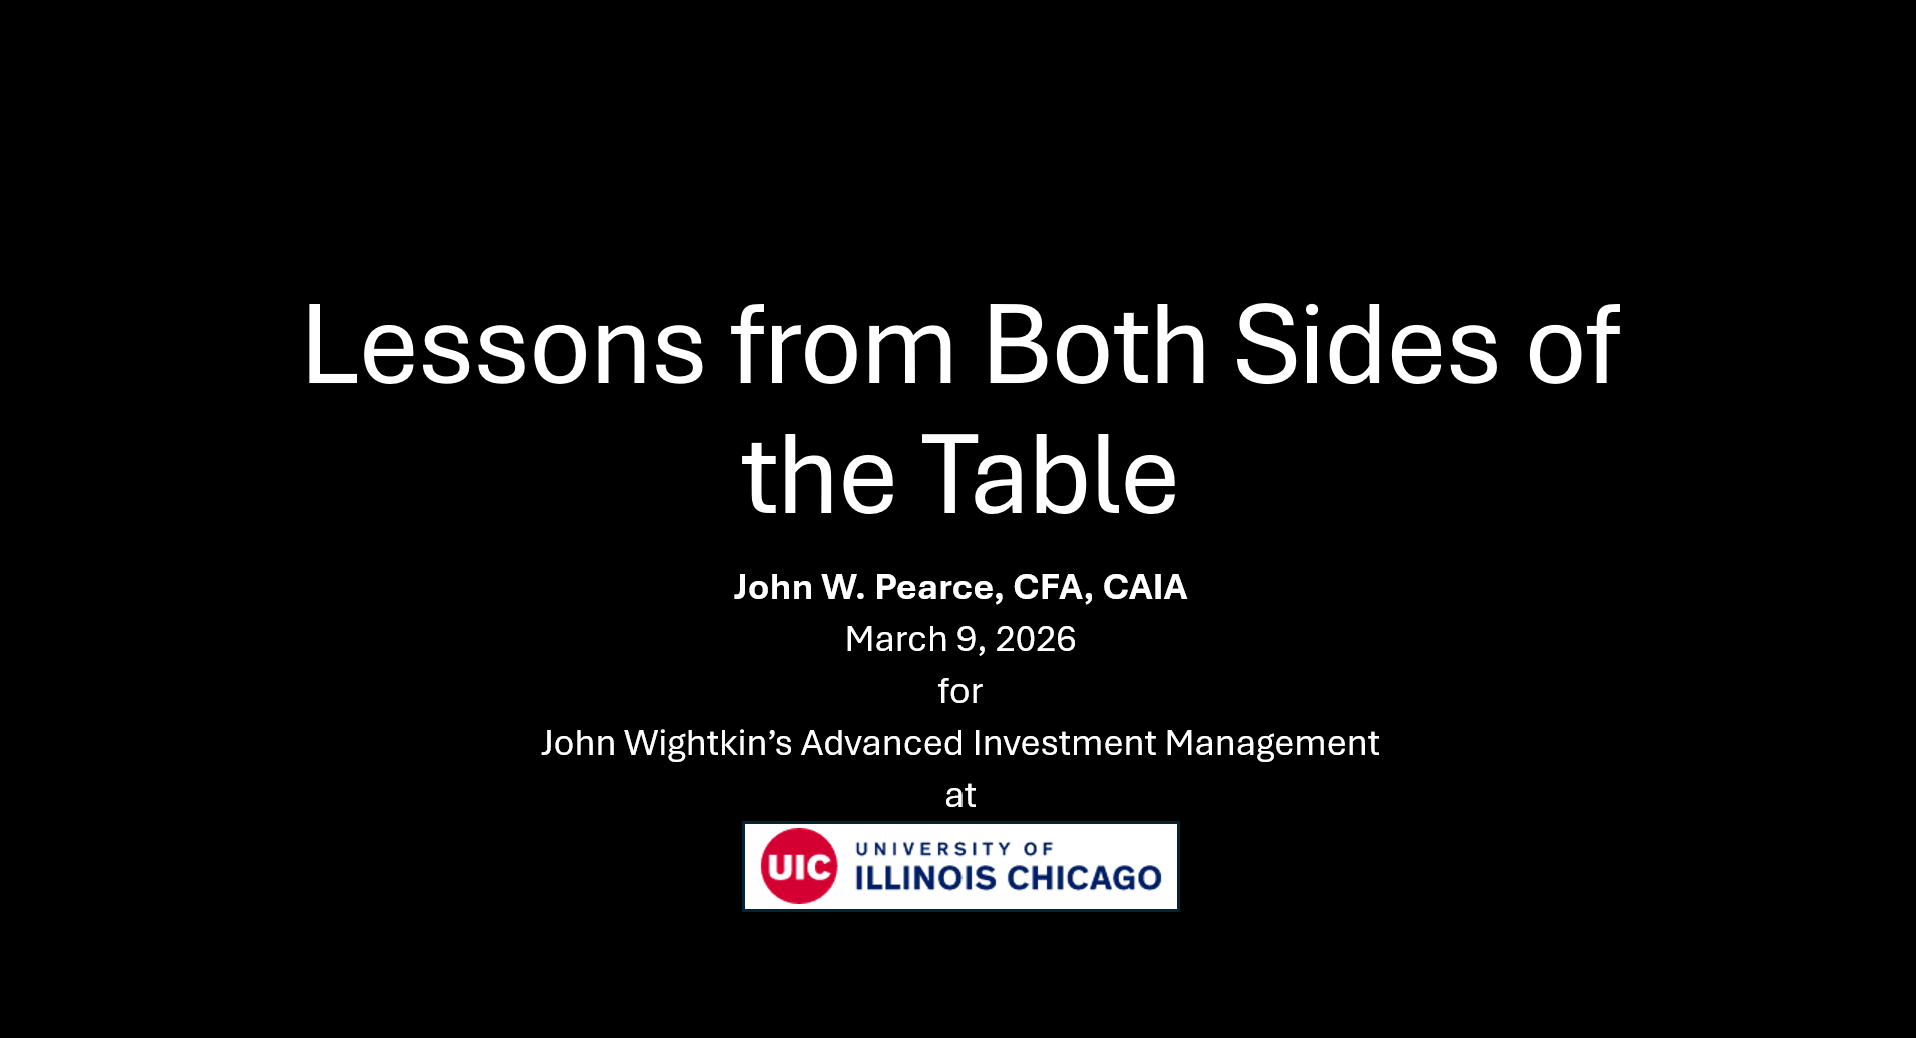
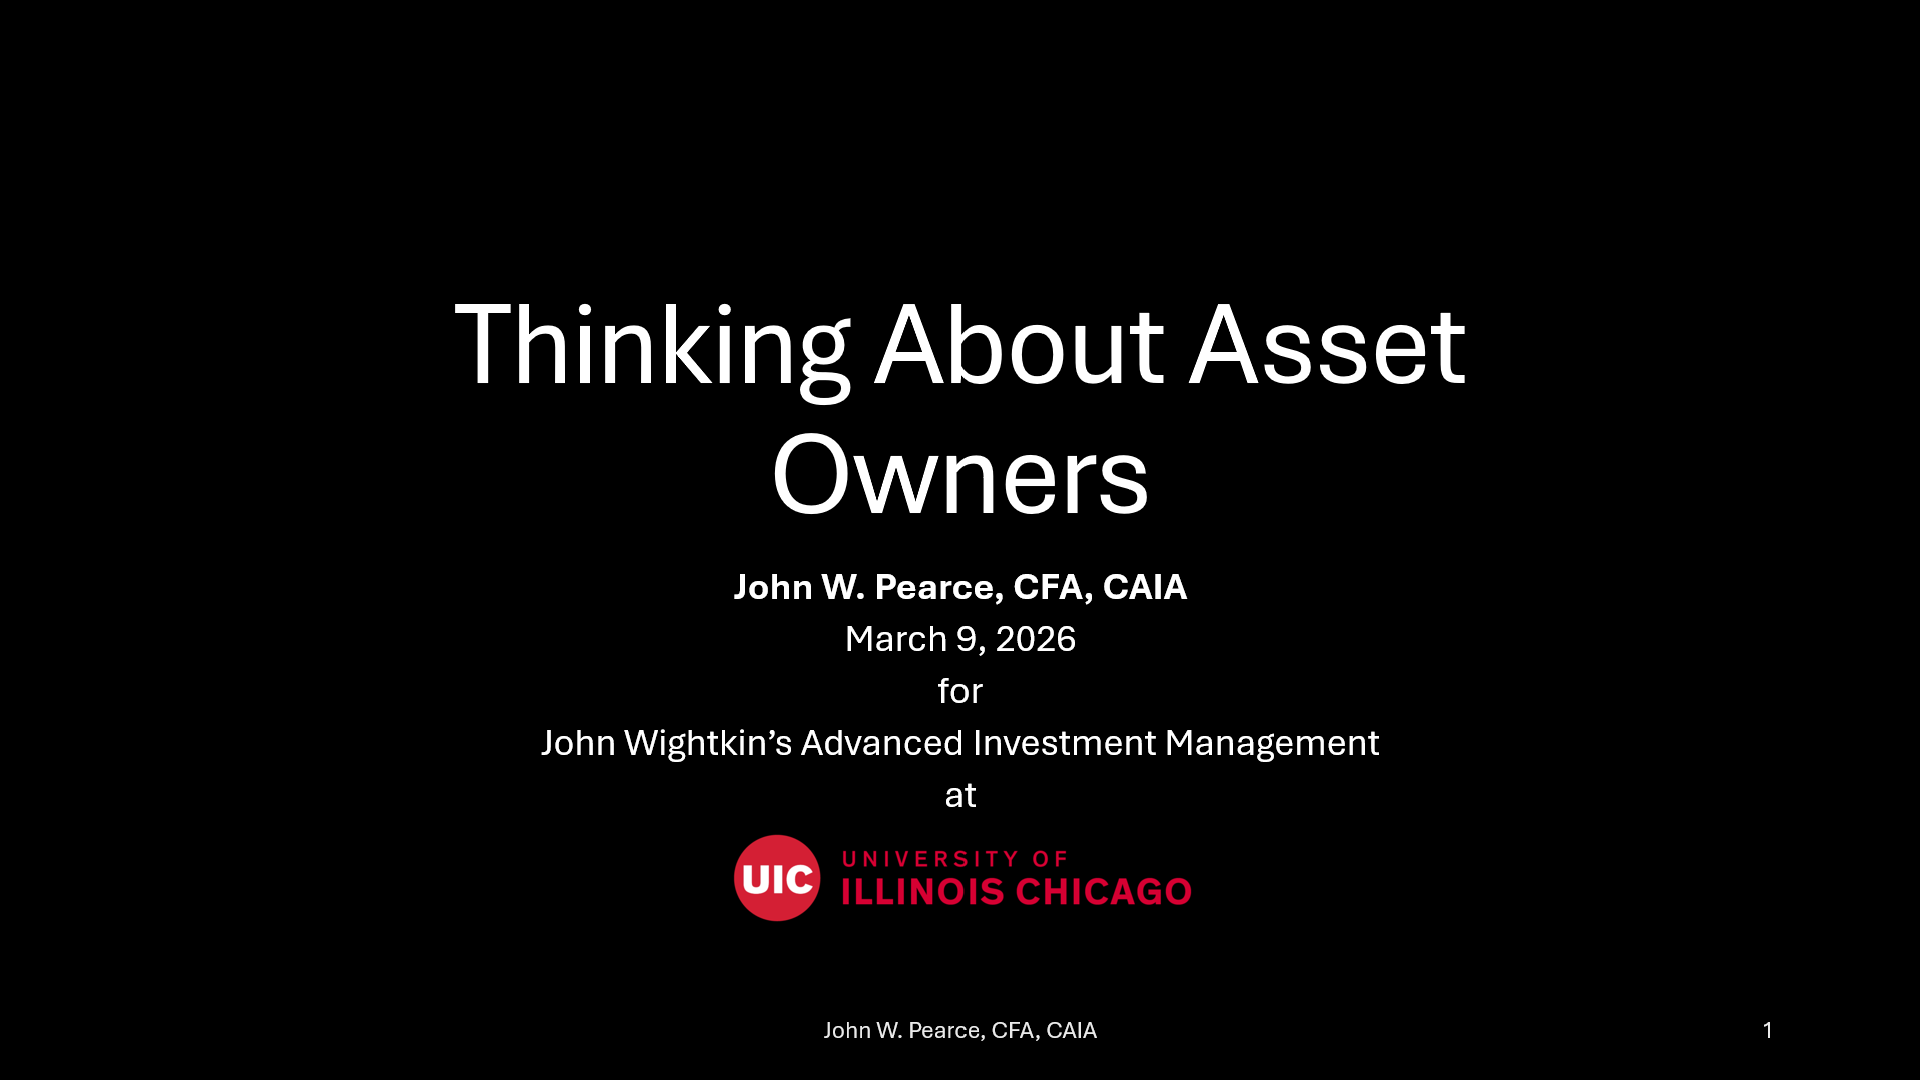
Built site for gh-pages

diff --git a/index.html b/index.html
@@ -282,13 +282,13 @@ window.Quarto = {
 <p>Details about my speaking engagements are on the <a href="./talks.html">Talks</a> page. A few of my upcoming and recent are listed here:</p>
 <div id="listing-talks" class="quarto-listing quarto-listing-container-grid">
 <div class="list grid quarto-listing-cols-3">
-<div class="g-col-1" data-index="0" data-categories="VUlD" data-listing-date-sort="1773014400000" data-listing-file-modified-sort="1772671410723" data-listing-date-modified-sort="NaN" data-listing-reading-time-sort="1" data-listing-word-count-sort="30">
+<div class="g-col-1" data-index="0" data-categories="VUlD" data-listing-date-sort="1773014400000" data-listing-file-modified-sort="1773015668895" data-listing-date-modified-sort="NaN" data-listing-reading-time-sort="1" data-listing-word-count-sort="45">
 <a href="./talks/2026-03-09_uic_fin_456_556/index.html" class="quarto-grid-link">
 <div class="quarto-grid-item card h-100 card-left">
 <p class="card-img-top"><img src="talks/2026-03-09_uic_fin_456_556/titleslide.png" style="height: 150px;"  class="thumbnail-image card-img"/></p>
 <div class="card-body post-contents">
 <h5 class="no-anchor card-title listing-title">
-Lessons from Both Sides of the Table
+Thinking About Asset Owners
 </h5>
 <div class="card-text listing-description delink">
 I will be speaking during both sections of John Wightkin’s Advanced Investment Management course on March 9, 2026.
@@ -304,7 +304,7 @@ Mar 9, 2026
 </div>
 </div></a>
 </div>
-<div class="g-col-1" data-index="1" data-categories="Q1FBJTJDVUlD" data-listing-date-sort="1769644800000" data-listing-file-modified-sort="1772671410723" data-listing-date-modified-sort="NaN" data-listing-reading-time-sort="1" data-listing-word-count-sort="103">
+<div class="g-col-1" data-index="1" data-categories="Q1FBJTJDVUlD" data-listing-date-sort="1769644800000" data-listing-file-modified-sort="1773015668894" data-listing-date-modified-sort="NaN" data-listing-reading-time-sort="1" data-listing-word-count-sort="103">
 <a href="./talks/2026-01-29_cqa_uic/index.html" class="quarto-grid-link">
 <div class="quarto-grid-item card h-100 card-left">
 <p class="card-img-top"><img src="talks/2026-01-29_cqa_uic/cqa_flyer.png" style="height: 150px;"  class="thumbnail-image card-img"/></p>
@@ -326,7 +326,7 @@ Jan 29, 2026
 </div>
 </div></a>
 </div>
-<div class="g-col-1" data-index="2" data-categories="QWxiaW9u" data-listing-date-sort="1699574400000" data-listing-file-modified-sort="1772671410719" data-listing-date-modified-sort="NaN" data-listing-reading-time-sort="1" data-listing-word-count-sort="142">
+<div class="g-col-1" data-index="2" data-categories="QWxiaW9u" data-listing-date-sort="1699574400000" data-listing-file-modified-sort="1773015668891" data-listing-date-modified-sort="NaN" data-listing-reading-time-sort="1" data-listing-word-count-sort="142">
 <a href="./talks/2023-11-10_albion_formulas/index.html" class="quarto-grid-link">
 <div class="quarto-grid-item card h-100 card-left">
 <p class="card-img-top"><img src="talks/2023-11-10_albion_formulas/formulas_titlecard.png" style="height: 150px;"  class="thumbnail-image card-img"/></p>
@@ -357,7 +357,7 @@ Nov 10, 2023
 <p>I have collected articles of interest on the <a href="./thoughts.html">Thoughts</a> page. Here are a few recent posts:</p>
 <div id="listing-thoughts" class="quarto-listing quarto-listing-container-grid">
 <div class="list grid quarto-listing-cols-3">
-<div class="g-col-1" data-index="0" data-categories="SW50ZXJ2aWV3cyUyQ0FJ" data-listing-date-sort="1727654400000" data-listing-file-modified-sort="1772671410732" data-listing-date-modified-sort="NaN" data-listing-reading-time-sort="1" data-listing-word-count-sort="55">
+<div class="g-col-1" data-index="0" data-categories="SW50ZXJ2aWV3cyUyQ0FJ" data-listing-date-sort="1727654400000" data-listing-file-modified-sort="1773015668903" data-listing-date-modified-sort="NaN" data-listing-reading-time-sort="1" data-listing-word-count-sort="55">
 <a href="./thoughts/2024-09-30_mg_ai_impact/index.html" class="quarto-grid-link">
 <div class="quarto-grid-item card h-100 card-left">
 <p class="card-img-top"><img src="thoughts/2024-09-30_mg_ai_impact/ai_impact_image.png" style="height: 150px;"  class="thumbnail-image card-img"/></p>
@@ -379,7 +379,7 @@ Sep 30, 2024
 </div>
 </div></a>
 </div>
-<div class="g-col-1" data-index="1" data-categories="SW50ZXJ2aWV3cyUyQ01hY3Jv" data-listing-date-sort="1707264000000" data-listing-file-modified-sort="1772671410729" data-listing-date-modified-sort="NaN" data-listing-reading-time-sort="1" data-listing-word-count-sort="71">
+<div class="g-col-1" data-index="1" data-categories="SW50ZXJ2aWV3cyUyQ01hY3Jv" data-listing-date-sort="1707264000000" data-listing-file-modified-sort="1773015668902" data-listing-date-modified-sort="NaN" data-listing-reading-time-sort="1" data-listing-word-count-sort="71">
 <a href="./thoughts/2024-02-07_cio_monetary_policy/index.html" class="quarto-grid-link">
 <div class="quarto-grid-item card h-100 card-left">
 <p class="card-img-top"><img src="thoughts/2024-02-07_cio_monetary_policy/monetary_policy_image.png" style="height: 150px;"  class="thumbnail-image card-img"/></p>
@@ -401,7 +401,7 @@ Feb 7, 2024
 </div>
 </div></a>
 </div>
-<div class="g-col-1" data-index="2" data-categories="SW50ZXJ2aWV3cyUyQ0FJ" data-listing-date-sort="1693526400000" data-listing-file-modified-sort="1772671410729" data-listing-date-modified-sort="NaN" data-listing-reading-time-sort="1" data-listing-word-count-sort="53">
+<div class="g-col-1" data-index="2" data-categories="SW50ZXJ2aWV3cyUyQ0FJ" data-listing-date-sort="1693526400000" data-listing-file-modified-sort="1773015668902" data-listing-date-modified-sort="NaN" data-listing-reading-time-sort="1" data-listing-word-count-sort="53">
 <a href="./thoughts/2023-09-01_cio_ai_change/index.html" class="quarto-grid-link">
 <div class="quarto-grid-item card h-100 card-left">
 <p class="card-img-top"><img src="thoughts/2023-09-01_cio_ai_change/ai_change_image.png" style="height: 150px;"  class="thumbnail-image card-img"/></p>

diff --git a/thoughts.html b/thoughts.html
@@ -236,7 +236,7 @@ window.Quarto = {
 
 <div class="quarto-listing quarto-listing-container-default" id="listing-listing">
 <div class="list quarto-listing-default">
-<div class="quarto-post image-right" data-index="0" data-categories="SW50ZXJ2aWV3cyUyQ0FJ" data-listing-date-sort="1727654400000" data-listing-file-modified-sort="1772671410732" data-listing-date-modified-sort="NaN" data-listing-reading-time-sort="1" data-listing-word-count-sort="55">
+<div class="quarto-post image-right" data-index="0" data-categories="SW50ZXJ2aWV3cyUyQ0FJ" data-listing-date-sort="1727654400000" data-listing-file-modified-sort="1773015668903" data-listing-date-modified-sort="NaN" data-listing-reading-time-sort="1" data-listing-word-count-sort="55">
 <div class="thumbnail"><a href="./thoughts/2024-09-30_mg_ai_impact/index.html" class="no-external">
 
 <p class="card-img-top"><img src="thoughts/2024-09-30_mg_ai_impact/ai_impact_image.png"  class="thumbnail-image card-img"/></p>
@@ -271,7 +271,7 @@ John W. Pearce, CFA
 </a>
 </div>
 </div>
-<div class="quarto-post image-right" data-index="1" data-categories="SW50ZXJ2aWV3cyUyQ01hY3Jv" data-listing-date-sort="1707264000000" data-listing-file-modified-sort="1772671410729" data-listing-date-modified-sort="NaN" data-listing-reading-time-sort="1" data-listing-word-count-sort="71">
+<div class="quarto-post image-right" data-index="1" data-categories="SW50ZXJ2aWV3cyUyQ01hY3Jv" data-listing-date-sort="1707264000000" data-listing-file-modified-sort="1773015668902" data-listing-date-modified-sort="NaN" data-listing-reading-time-sort="1" data-listing-word-count-sort="71">
 <div class="thumbnail"><a href="./thoughts/2024-02-07_cio_monetary_policy/index.html" class="no-external">
 
 <p class="card-img-top"><img src="thoughts/2024-02-07_cio_monetary_policy/monetary_policy_image.png"  class="thumbnail-image card-img"/></p>
@@ -306,7 +306,7 @@ John W. Pearce, CFA
 </a>
 </div>
 </div>
-<div class="quarto-post image-right" data-index="2" data-categories="SW50ZXJ2aWV3cyUyQ0FJ" data-listing-date-sort="1693526400000" data-listing-file-modified-sort="1772671410729" data-listing-date-modified-sort="NaN" data-listing-reading-time-sort="1" data-listing-word-count-sort="53">
+<div class="quarto-post image-right" data-index="2" data-categories="SW50ZXJ2aWV3cyUyQ0FJ" data-listing-date-sort="1693526400000" data-listing-file-modified-sort="1773015668902" data-listing-date-modified-sort="NaN" data-listing-reading-time-sort="1" data-listing-word-count-sort="53">
 <div class="thumbnail"><a href="./thoughts/2023-09-01_cio_ai_change/index.html" class="no-external">
 
 <p class="card-img-top"><img src="thoughts/2023-09-01_cio_ai_change/ai_change_image.png"  class="thumbnail-image card-img"/></p>
@@ -341,7 +341,7 @@ John W. Pearce, CFA
 </a>
 </div>
 </div>
-<div class="quarto-post image-right" data-index="3" data-categories="UGVuc2lvbiUyMEZ1bmRzJTJDSG9ub3JzJTJDSW50ZXJ2aWV3cw==" data-listing-date-sort="1693440000000" data-listing-file-modified-sort="1772671410728" data-listing-date-modified-sort="NaN" data-listing-reading-time-sort="1" data-listing-word-count-sort="60">
+<div class="quarto-post image-right" data-index="3" data-categories="UGVuc2lvbiUyMEZ1bmRzJTJDSG9ub3JzJTJDSW50ZXJ2aWV3cw==" data-listing-date-sort="1693440000000" data-listing-file-modified-sort="1773015668901" data-listing-date-modified-sort="NaN" data-listing-reading-time-sort="1" data-listing-word-count-sort="60">
 <div class="thumbnail"><a href="./thoughts/2023-08-31_cio_nextgens/index.html" class="no-external">
 
 <p class="card-img-top"><img src="thoughts/2023-08-31_cio_nextgens/cio_nextgen_image.png"  class="thumbnail-image card-img"/></p>
@@ -378,7 +378,7 @@ John W. Pearce, CFA
 </a>
 </div>
 </div>
-<div class="quarto-post image-right" data-index="4" data-categories="UGVuc2lvbiUyMEZ1bmRzJTJDUmlzaw==" data-listing-date-sort="1688083200000" data-listing-file-modified-sort="1772671410725" data-listing-date-modified-sort="NaN" data-listing-reading-time-sort="2" data-listing-word-count-sort="249">
+<div class="quarto-post image-right" data-index="4" data-categories="UGVuc2lvbiUyMEZ1bmRzJTJDUmlzaw==" data-listing-date-sort="1688083200000" data-listing-file-modified-sort="1773015668897" data-listing-date-modified-sort="NaN" data-listing-reading-time-sort="2" data-listing-word-count-sort="249">
 <div class="thumbnail"><a href="./thoughts/2023-06-30_chifed_uk_pension_stress/index.html" class="no-external">
 
 <p class="card-img-top"><img src="thoughts/2023-06-30_chifed_uk_pension_stress/uk_pension_stress_image.png"  class="thumbnail-image card-img"/></p>
@@ -413,7 +413,7 @@ John W. Pearce, CFA
 </a>
 </div>
 </div>
[2 lines of base64/hex data omitted]
 <div class="thumbnail"><a href="./thoughts/2023-05-31_imrf_ten_lessons_learned/index.html" class="no-external">
 
 <p class="card-img-top"><img src="thoughts/2023-05-31_imrf_ten_lessons_learned/ten_lessons_image.png"  class="thumbnail-image card-img"/></p>

diff --git a/talks.html b/talks.html
@@ -236,7 +236,7 @@ window.Quarto = {
 
 <div class="quarto-listing quarto-listing-container-default" id="listing-listing">
 <div class="list quarto-listing-default">
-<div class="quarto-post image-right" data-index="0" data-categories="VUlD" data-listing-date-sort="1773014400000" data-listing-file-modified-sort="1772671410723" data-listing-date-modified-sort="NaN" data-listing-reading-time-sort="1" data-listing-word-count-sort="30">
+<div class="quarto-post image-right" data-index="0" data-categories="VUlD" data-listing-date-sort="1773014400000" data-listing-file-modified-sort="1773015668895" data-listing-date-modified-sort="NaN" data-listing-reading-time-sort="1" data-listing-word-count-sort="45">
 <div class="thumbnail"><a href="./talks/2026-03-09_uic_fin_456_556/index.html" class="no-external">
 
 <p class="card-img-top"><img src="talks/2026-03-09_uic_fin_456_556/titleslide.png"  class="thumbnail-image card-img"/></p>
@@ -244,7 +244,7 @@ window.Quarto = {
 </a></div>
 <div class="body">
 <h3 class="no-anchor listing-title">
-<a href="./talks/2026-03-09_uic_fin_456_556/index.html" class="no-external">Lessons from Both Sides of the Table</a>
+<a href="./talks/2026-03-09_uic_fin_456_556/index.html" class="no-external">Thinking About Asset Owners</a>
 </h3>
 <div class="listing-subtitle">
 <a href="./talks/2026-03-09_uic_fin_456_556/index.html" class="no-external">UIC Advanced Investment Management</a>
@@ -269,7 +269,7 @@ John W. Pearce, CFA, CAIA
 </a>
 </div>
 </div>
-<div class="quarto-post image-right" data-index="1" data-categories="Q1FBJTJDVUlD" data-listing-date-sort="1769644800000" data-listing-file-modified-sort="1772671410723" data-listing-date-modified-sort="NaN" data-listing-reading-time-sort="1" data-listing-word-count-sort="103">
+<div class="quarto-post image-right" data-index="1" data-categories="Q1FBJTJDVUlD" data-listing-date-sort="1769644800000" data-listing-file-modified-sort="1773015668894" data-listing-date-modified-sort="NaN" data-listing-reading-time-sort="1" data-listing-word-count-sort="103">
 <div class="thumbnail"><a href="./talks/2026-01-29_cqa_uic/index.html" class="no-external">
 
 <p class="card-img-top"><img src="talks/2026-01-29_cqa_uic/cqa_flyer.png"  class="thumbnail-image card-img"/></p>
@@ -304,7 +304,7 @@ John W. Pearce, CFA, CAIA
 </a>
 </div>
 </div>
-<div class="quarto-post image-right" data-index="2" data-categories="QWxiaW9u" data-listing-date-sort="1699574400000" data-listing-file-modified-sort="1772671410719" data-listing-date-modified-sort="NaN" data-listing-reading-time-sort="1" data-listing-word-count-sort="142">
+<div class="quarto-post image-right" data-index="2" data-categories="QWxiaW9u" data-listing-date-sort="1699574400000" data-listing-file-modified-sort="1773015668891" data-listing-date-modified-sort="NaN" data-listing-reading-time-sort="1" data-listing-word-count-sort="142">
 <div class="thumbnail"><a href="./talks/2023-11-10_albion_formulas/index.html" class="no-external">
 
 <p class="card-img-top"><img src="talks/2023-11-10_albion_formulas/formulas_titlecard.png"  class="thumbnail-image card-img"/></p>

diff --git a/talks/2026-03-09_uic_fin_456_556/index.html b/talks/2026-03-09_uic_fin_456_556/index.html
@@ -9,7 +9,7 @@
 <meta name="author" content="John W. Pearce, CFA, CAIA">
 <meta name="dcterms.date" content="2026-03-09">
 
-<title>Lessons from Both Sides of the Table – (α)typicalquant</title>
+<title>Thinking About Asset Owners – (α)typicalquant</title>
 <style>
 code{white-space: pre-wrap;}
 span.smallcaps{font-variant: small-caps;}
@@ -161,7 +161,7 @@ ul.task-list li input[type="checkbox"] {
 <header id="title-block-header" class="quarto-title-block default page-columns page-full">
   <div class="quarto-title-banner page-columns page-full">
     <div class="quarto-title column-body">
-      <h1 class="title">Lessons from Both Sides of the Table</h1>
+      <h1 class="title">Thinking About Asset Owners</h1>
             <p class="subtitle lead">UIC Advanced Investment Management</p>
                                 <div class="quarto-categories">
                 <div class="quarto-category">UIC</div>
@@ -198,7 +198,7 @@ ul.task-list li input[type="checkbox"] {
     <h2 id="toc-title">On this page</h2>
    
   <ul>
-  <li><a href="#agenda" id="toc-agenda" class="nav-link active" data-scroll-target="#agenda">Agenda</a></li>
+  <li><a href="#learning-objectives" id="toc-learning-objectives" class="nav-link active" data-scroll-target="#learning-objectives">Learning Objectives</a></li>
   <li><a href="#resources" id="toc-resources" class="nav-link" data-scroll-target="#resources">Resources</a></li>
   </ul>
 </nav>
@@ -211,14 +211,14 @@ ul.task-list li input[type="checkbox"] {
 
 
 <p>I will be speaking during both sections of John Wightkin’s Advanced Investment Management course on March 9, 2026.</p>
-<section id="agenda" class="level1">
-<h1>Agenda</h1>
-<p>Agenda:</p>
-<ul>
-<li><p>To</p></li>
-<li><p>be</p></li>
-<li><p>determined</p></li>
-</ul>
+<section id="learning-objectives" class="level1">
+<h1>Learning Objectives</h1>
+<ol type="I">
+<li>Who are “institutional asset owners”?</li>
+<li>What do pension funds do?</li>
+<li>Where do asset owners allocate capital?</li>
+<li>Why do asset owners hire asset managers?</li>
+</ol>
 </section>
 <section id="resources" class="level1">
 <h1>Resources</h1>
